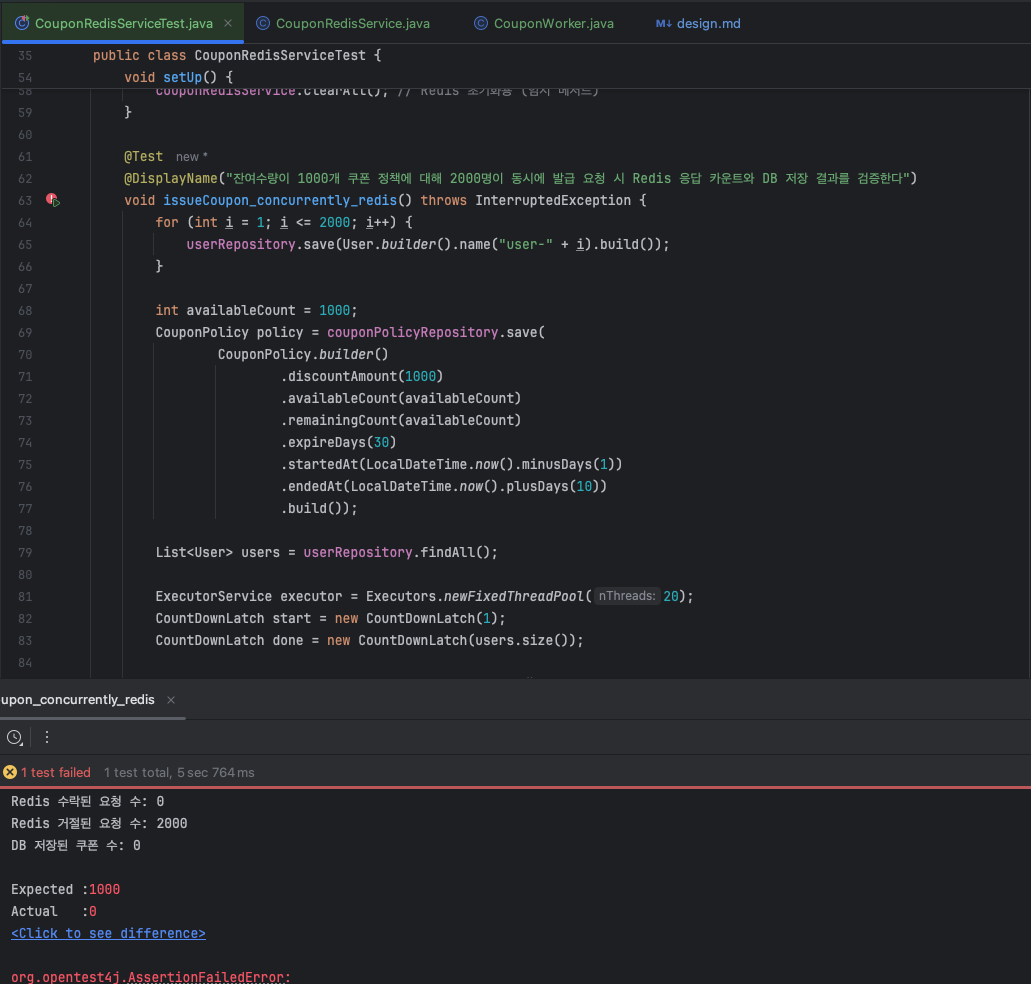
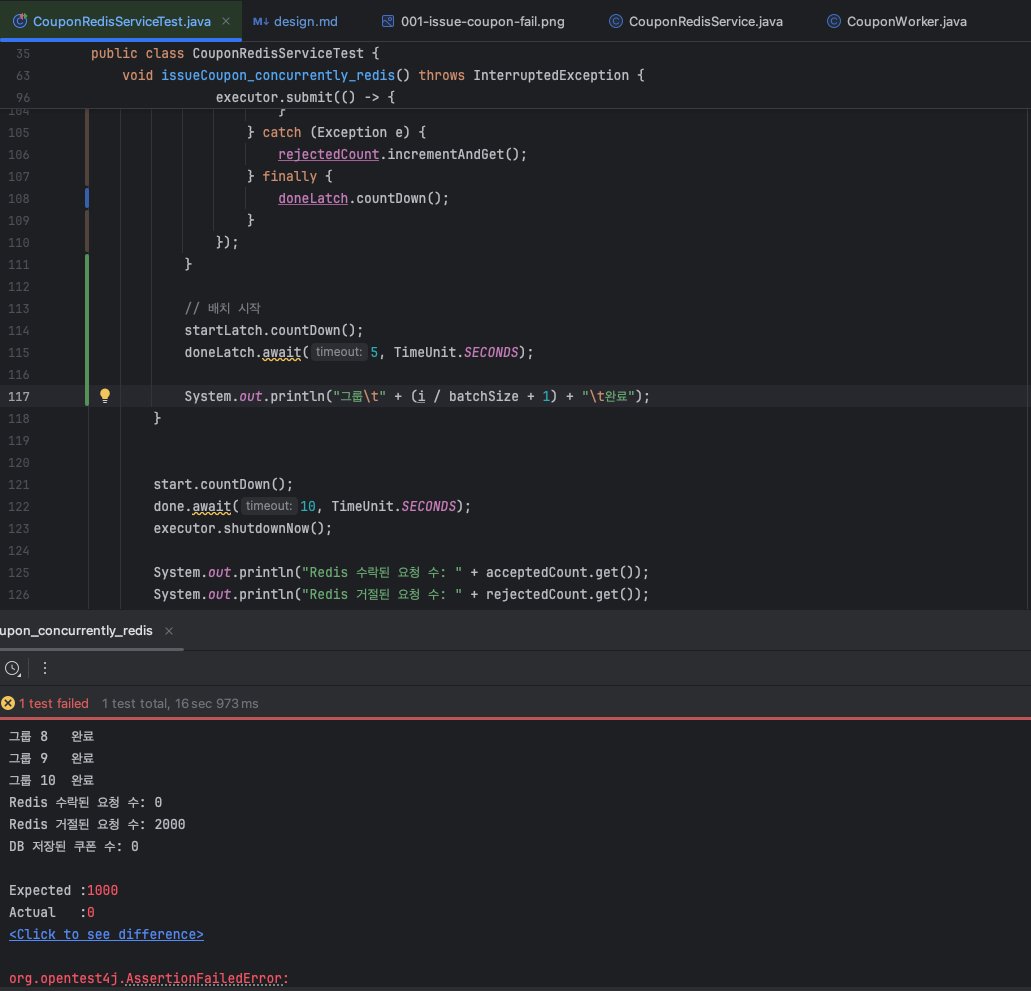
docs: 테스트 실패 상태 작성

diff --git a/src/test/java/kr/hhplus/be/server/coupon/application/CouponRedisServiceTest.java b/src/test/java/kr/hhplus/be/server/coupon/application/CouponRedisServiceTest.java
@@ -85,22 +85,36 @@ public class CouponRedisServiceTest {
         AtomicInteger acceptedCount = new AtomicInteger();
         AtomicInteger rejectedCount = new AtomicInteger();
 
-        for (User user : users) {
-            executor.submit(() -> {
-                try {
-                    start.await();
-                    boolean result = couponRedisService.tryIssue(user.getId(), policy.getId());
-                    if (result) {
-                        acceptedCount.incrementAndGet();
-                    } else {
+        int batchSize = 200; // 200명씩 10번 나눠서 동시 요청
+        for (int i = 0; i < users.size(); i += batchSize) {
+            List<User> batch = users.subList(i, Math.min(i + batchSize, users.size()));
+
+            CountDownLatch startLatch = new CountDownLatch(1);
+            CountDownLatch doneLatch = new CountDownLatch(batch.size());
+
+            for (User user : batch) {
+                executor.submit(() -> {
+                    try {
+                        startLatch.await(); // 동시에 시작
+                        boolean result = couponRedisService.tryIssue(user.getId(), policy.getId());
+                        if (result) {
+                            acceptedCount.incrementAndGet();
+                        } else {
+                            rejectedCount.incrementAndGet();
+                        }
+                    } catch (Exception e) {
                         rejectedCount.incrementAndGet();
+                    } finally {
+                        doneLatch.countDown();
                     }
-                } catch (Exception e) {
-                    rejectedCount.incrementAndGet();
-                } finally {
-                    done.countDown();
-                }
-            });
+                });
+            }
+
+            // 배치 시작
+            startLatch.countDown();
+            doneLatch.await(5, TimeUnit.SECONDS);
+
+            System.out.println("그룹\t" + (i / batchSize + 1) + "\t완료");
         }
 
 
@@ -113,10 +127,10 @@ public class CouponRedisServiceTest {
 
 
         couponWorker.processPending(policy.getId());
+        TimeUnit.SECONDS.sleep(1);
 
         long dbCount = couponRepository.count();
         System.out.println("DB 저장된 쿠폰 수: " + dbCount);
-
 
         assertThat(acceptedCount.get()).isEqualTo(availableCount);
         assertThat(dbCount).isEqualTo(availableCount);

diff --git a/docs/asynchronous-redis/design.md b/docs/asynchronous-redis/design.md
@@ -110,6 +110,84 @@ sequenceDiagram
 - policyId 별로 redis에서 PEDING 상태의 선착순 목록을 batch 사이즈(500) 만큼 가져와서 
 - CouponService.issueCoupon 으로 쿠폰 발급
 - 성공 시 ZSET에서 제거, ISSUED SET에 기록(중복 발급 여부 정책에 따라)
+- 배치가 끝나면 발급된 수량을 Redis에 갱신(임시 차감과 실제 DB 값 동기화)
 
 ## 통합 테스트
+
+### 통합 테스트 목적
+
+- 동시 다발적인 요청에도 Redis에 의해 남은 수량만큼만 `PENDING`에 포함되는 지 확인한다.
+- 비동기 발급 확정 검증을 위해 worker 실행 이후에 DB의 반영과 `ISSUED`로의 이동을 확인한다. 
+
+
+### 조건
+
+- [CouponRedisServiceTest.java](https://github.com/hanghae-plus-anveloper/hhplus-e-commerce-java/blob/develop/src/test/java/kr/hhplus/be/server/coupon/application/CouponRedisServiceTest.java)
+- 1000개가 가용한 쿠폰에 대하여 사용자 요청은 2000개 수행
+- 사용자 요청은 200개씩 10번 동시요청으로 수행(ms 값 중복 발생 테스트용)
+  - 워커는 500개씩 처리시켜볼 예정이고, ms + 랜덤숫자는 3자리 숫자 001~999까지 부여할 예정입니다.
+
+- 주요 코드
+
+  ```java
+  @Test
+  @DisplayName("잔여수량이 1000개 쿠폰 정책에 대해 2000명이 동시에 발급 요청 시 Redis 응답 카운트와 DB 저장 결과를 검증한다")
+  void issueCoupon_concurrently_redis() throws InterruptedException {
+      /* ... */
+  
+      int batchSize = 200; // 200명씩 10번 나눠서 동시 요청
+      for (int i = 0; i < users.size(); i += batchSize) {
+          List<User> batch = users.subList(i, Math.min(i + batchSize, users.size()));
+  
+          CountDownLatch startLatch = new CountDownLatch(1);
+          CountDownLatch doneLatch = new CountDownLatch(batch.size());
+  
+          for (User user : batch) {
+              executor.submit(() -> {
+                  try {
+                      startLatch.await(); // 동시에 시작
+                      boolean result = couponRedisService.tryIssue(user.getId(), policy.getId());
+                      if (result) {
+                          acceptedCount.incrementAndGet();
+                      } else {
+                          rejectedCount.incrementAndGet();
+                      }
+                  } catch (Exception e) {
+                      rejectedCount.incrementAndGet();
+                  } finally {
+                      doneLatch.countDown();
+                  }
+              });
+          }
+  
+          // 배치 시작
+          startLatch.countDown();
+          doneLatch.await(5, TimeUnit.SECONDS);
+  
+          System.out.println("그룹\t" + (i / batchSize + 1) + "\t완료");
+      }
+  
+  
+      start.countDown();
+      done.await(10, TimeUnit.SECONDS);
+      executor.shutdownNow();
+  
+      System.out.println("Redis 수락된 요청 수: " + acceptedCount.get());
+      System.out.println("Redis 거절된 요청 수: " + rejectedCount.get());
+  
+      couponWorker.processPending(policy.getId());
+      TimeUnit.SECONDS.sleep(1);
+  
+      long dbCount = couponRepository.count();
+      System.out.println("DB 저장된 쿠폰 수: " + dbCount);
+  
+      assertThat(acceptedCount.get()).isEqualTo(availableCount);
+      assertThat(dbCount).isEqualTo(availableCount);
+  }
+  ```
+
+### 통합 테스트 실패 결과
+
+![실패 - 컴파일만 성공](./assets/001-issue-coupon-fail.png)
+- 동시요청 확인, 요청 결과 false 값 고정으로 컴파일만 되도록 구현
 
